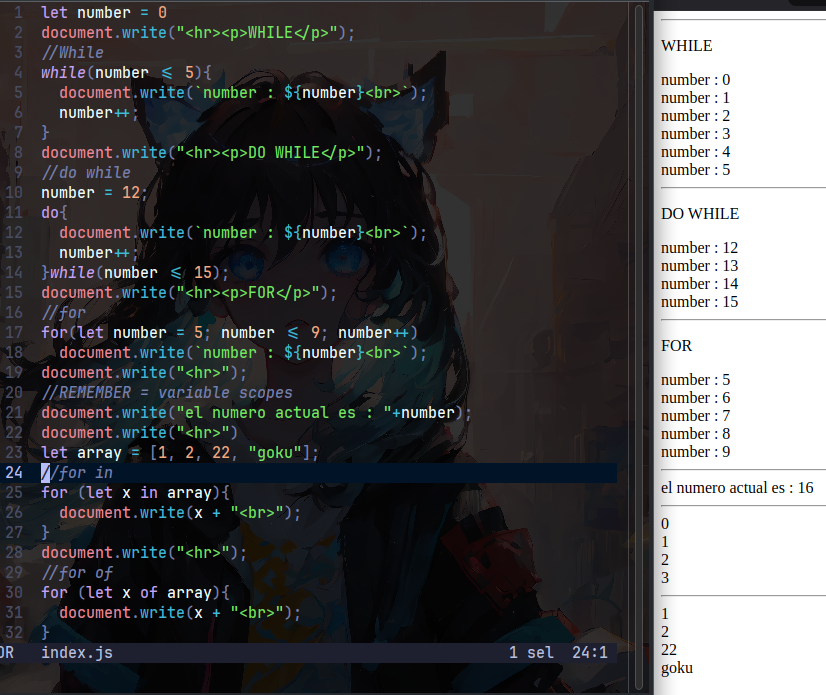
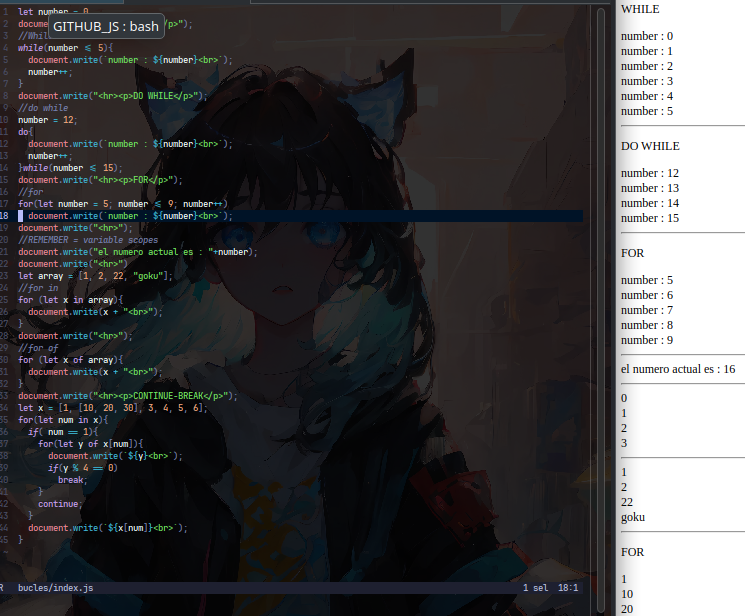
Update bucle README

Changed region(s): [[0.0, 0.0, 1.0, 1.0], [0.6483, 0.8328, 0.6792, 0.8945]]

diff --git a/bucles/README.md b/bucles/README.md
@@ -108,7 +108,7 @@ for(let num in x){
 
 ## IMAGEN DE EJECUCIÓN
 
-<img src="img/A.png">
+<img src="img/B.png">
 
 > Esta imagen ilustra la salida generada por el código. Ayuda a entender cómo se comportan los bucles y el uso de `continue` y `break` en la práctica.
 
